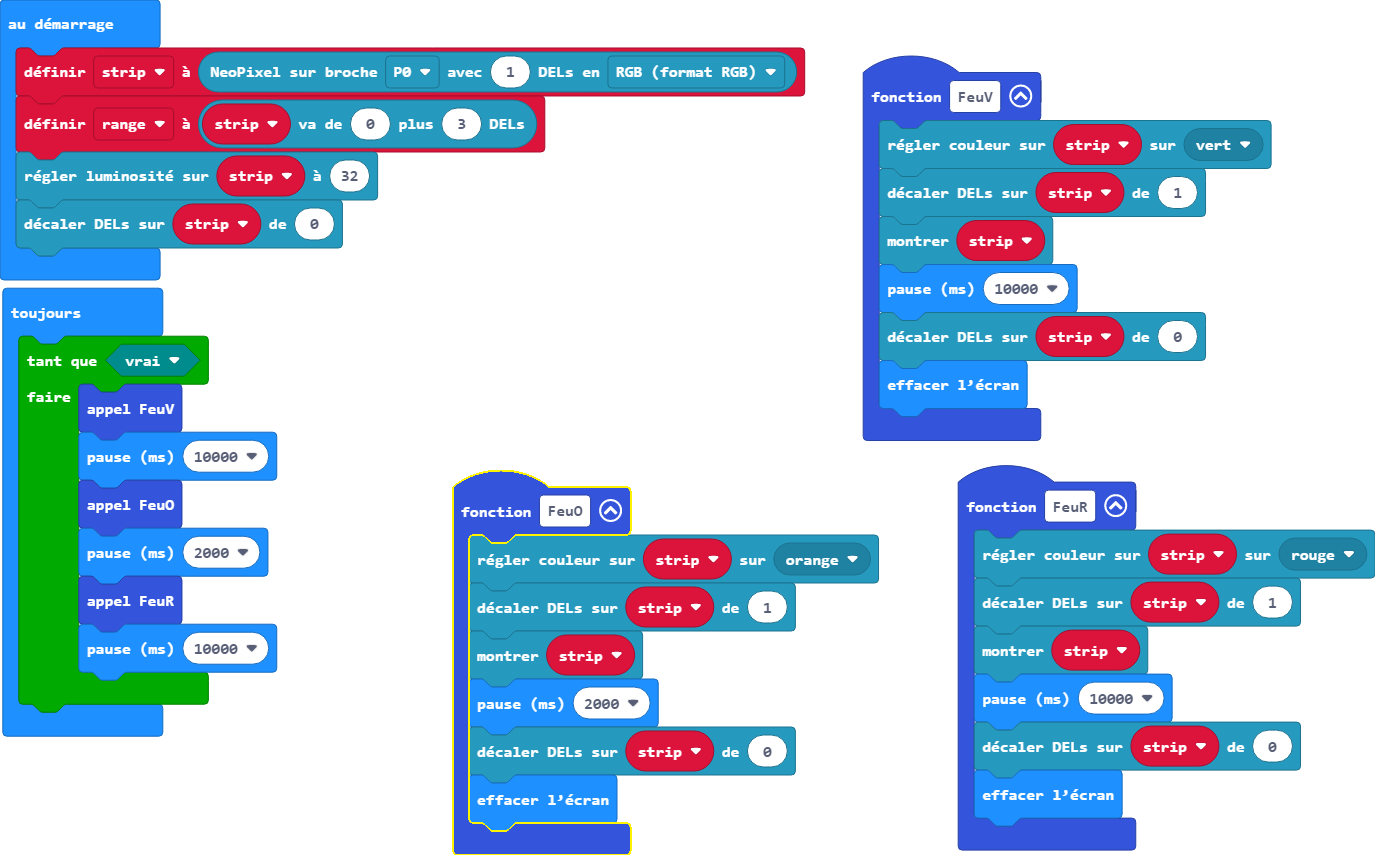
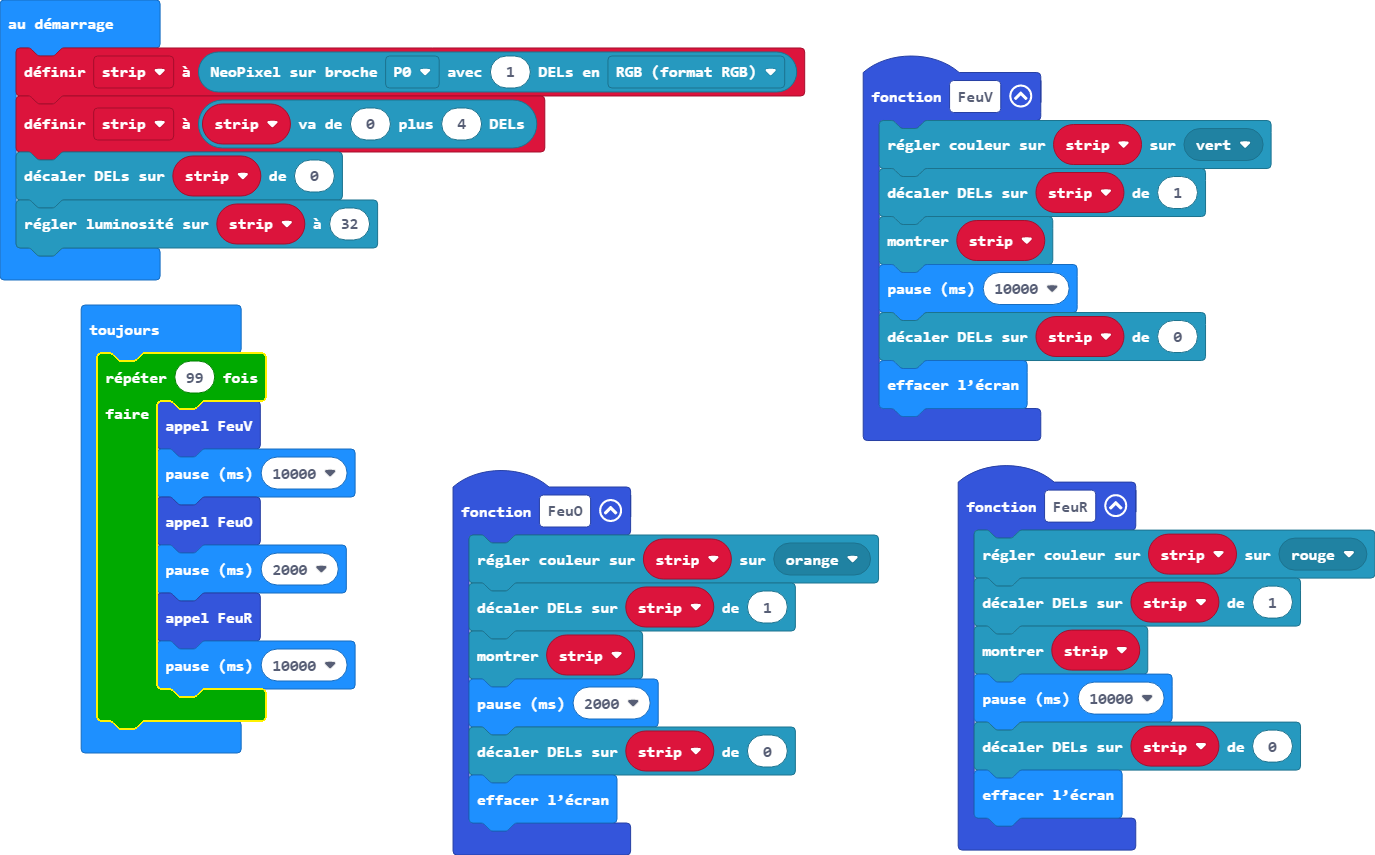
Mise à jour main.blocks, main.ts

Changed region(s): [[0.0, 0.3345, 0.2749, 0.8819], [0.0305, 0.152, 0.2749, 0.3041], [0.0611, 0.1216, 0.0916, 0.152]]

diff --git a/main.ts b/main.ts
@@ -24,11 +24,11 @@ function FeuO () {
 }
 let strip: neopixel.Strip = null
 strip = neopixel.create(DigitalPin.P0, 1, NeoPixelMode.RGB)
-let range = strip.range(0, 3)
-strip.setBrightness(32)
+strip = strip.range(0, 4)
 strip.shift(0)
+strip.setBrightness(32)
 basic.forever(function () {
-    while (true) {
+    for (let index = 0; index < 99; index++) {
         FeuV()
         basic.pause(10000)
         FeuO()
